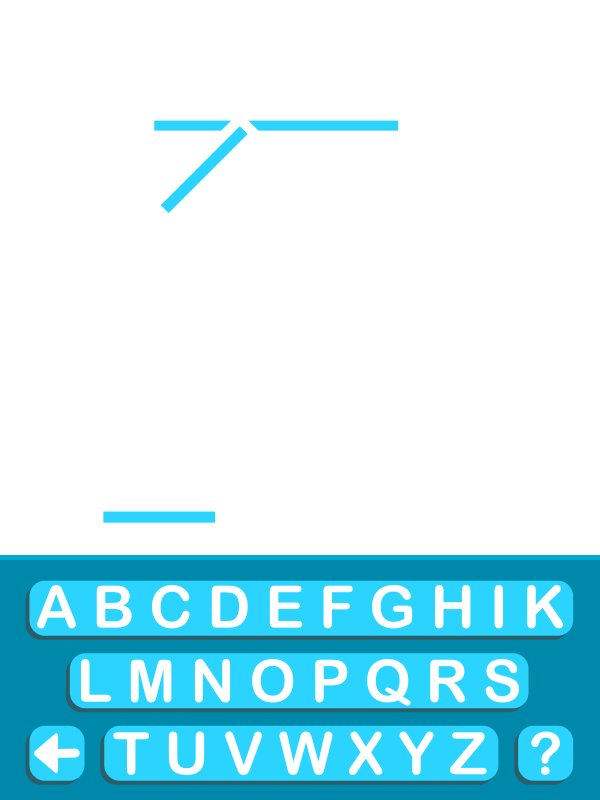
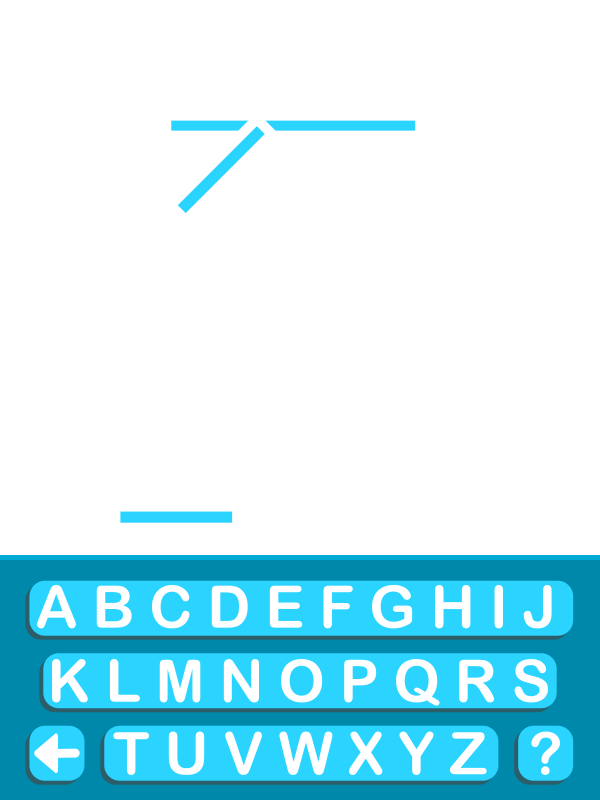
Help functionality.

diff --git a/HangmanQuest/HQView.cpp b/HangmanQuest/HQView.cpp
@@ -1,14 +1,76 @@
 #include "HQView.h"
-#include <SFML/Graphics.hpp>
 
 HQView::HQView()
 {
 	game_state = MAIN_MENU;
+	// Create alphabet buttons.
+	sf::IntRect a_button(35, 582, 43, 49);
+	sf::IntRect b_button(91, 582, 43, 49);
+	sf::IntRect c_button(149, 582, 43, 49);
+	sf::IntRect d_button(207, 582, 43, 49);
+	sf::IntRect e_button(263, 582, 43, 49);
+	sf::IntRect f_button(315, 582, 43, 49);
+	sf::IntRect g_button(371, 582, 43, 49);
+	sf::IntRect h_button(431, 582, 43, 49);
+	sf::IntRect i_button(477, 582, 43, 49);
+	sf::IntRect j_button(523, 582, 43, 49);
+	sf::IntRect k_button(47, 656, 43, 49);
+	sf::IntRect l_button(103, 656, 43, 49);
+	sf::IntRect m_button(158, 656, 43, 49);
+	sf::IntRect n_button(220, 656, 43, 49);
+	sf::IntRect o_button(280, 656, 43, 49);
+	sf::IntRect p_button(338, 656, 43, 49);
+	sf::IntRect q_button(396, 656, 43, 49);
+	sf::IntRect r_button(454, 656, 43, 49);
+	sf::IntRect s_button(509, 656, 43, 49);
+	sf::IntRect t_button(110, 729, 43, 49);
+	sf::IntRect u_button(164, 729, 43, 49);
+	sf::IntRect v_button(222, 729, 43, 49);
+	sf::IntRect w_button(278, 729, 55, 49);
+	sf::IntRect x_button(344, 729, 43, 49);
+	sf::IntRect y_button(394, 729, 43, 49);
+	sf::IntRect z_button(447, 729, 43, 49);
+	alpha_buttons.push_back(a_button);
+	alpha_buttons.push_back(b_button);
+	alpha_buttons.push_back(c_button);
+	alpha_buttons.push_back(d_button);
+	alpha_buttons.push_back(e_button);
+	alpha_buttons.push_back(f_button);
+	alpha_buttons.push_back(g_button);
+	alpha_buttons.push_back(h_button);
+	alpha_buttons.push_back(i_button);
+	alpha_buttons.push_back(j_button);
+	alpha_buttons.push_back(k_button);
+	alpha_buttons.push_back(l_button);
+	alpha_buttons.push_back(m_button);
+	alpha_buttons.push_back(n_button);
+	alpha_buttons.push_back(o_button);
+	alpha_buttons.push_back(p_button);
+	alpha_buttons.push_back(q_button);
+	alpha_buttons.push_back(r_button);
+	alpha_buttons.push_back(s_button);
+	alpha_buttons.push_back(t_button);
+	alpha_buttons.push_back(u_button);
+	alpha_buttons.push_back(v_button);
+	alpha_buttons.push_back(w_button);
+	alpha_buttons.push_back(x_button);
+	alpha_buttons.push_back(y_button);
+	alpha_buttons.push_back(z_button);
 }
 
 
 HQView::~HQView()
 {
+}
+
+char HQView::getLetter(sf::Vector2i position)
+{
+	for (size_t i = 0; i < alpha_buttons.size(); ++i)
+	{
+		if (alpha_buttons[i].contains(position))
+			return static_cast<char>(i + 65);
+	}
+	return ' ';
 }
 
 /*
@@ -17,7 +79,7 @@ Renders the game screen (the current state of the game).
 int HQView::displayGame()
 {
 	// Create window.
-	sf::RenderWindow window(sf::VideoMode(600, 800), "HangmanQuest");
+	sf::RenderWindow window(sf::VideoMode(600, 800), "HangmanQuest", sf::Style::Close);
 	window.setVerticalSyncEnabled(true);
 	window.setFramerateLimit(60);
 
@@ -38,6 +100,14 @@ int HQView::displayGame()
 	title.setFillColor(sf::Color::White);
 	float title_width = title.getLocalBounds().width;
 	title.setPosition(300 - title_width / 2, 180);
+
+	// Create empty word to guess.
+	sf::Text empty_word;
+	empty_word.setFont(font);
+	empty_word.setCharacterSize(56);
+	empty_word.setFillColor(sf::Color::White);
+	float empty_word_width = empty_word.getLocalBounds().width;
+	empty_word.setPosition(300 - empty_word_width / 2, 180);
 
 	// Create menu overlay.
 	sf::Texture menu_overlay_texture;
@@ -60,9 +130,20 @@ int HQView::displayGame()
 	sf::Sprite game_overlay;
 	game_overlay.setTexture(game_overlay_texture);
 
+	// Create help overlay.
+	sf::Texture help_overlay_texture;
+	if (!help_overlay_texture.loadFromFile("../Overlays/help.png"))
+		return -1;
+	sf::Sprite help_overlay;
+	help_overlay.setTexture(help_overlay_texture);
+
 	// Create menu buttons.
 	sf::IntRect enter_word_button(149, 551, 301, 105);
 	sf::IntRect choose_word_button(130, 421, 340, 105);
+
+	// Other game buttons.
+	sf::IntRect back_button(29, 725, 55, 56);
+	sf::IntRect help_button(518, 725, 56, 56);
 
 	// Create enter word button.
 	sf::IntRect confirm_button(189, 591, 221, 52);
@@ -137,8 +218,39 @@ int HQView::displayGame()
 
 				break;
 			case GAME:
+				// Get if a button was pressed.
+				if (sf::Mouse::isButtonPressed(sf::Mouse::Left))
+				{
+					sf::Vector2i position = sf::Mouse::getPosition(window);
+
+					if (back_button.contains(position)) // return to menu.
+					{
+						game_state = MAIN_MENU;
+						break;
+					}
+					if (help_button.contains(position))
+					{
+						game_state = HELP;
+						break;
+					}
+
+					char guess = getLetter(position);
+					// If there was a guess, send guess to controller.
+					if (guess != ' ')
+					{
+
+					}
+
+				}
 				break;
 			case HELP:
+				// Check if back button was pressed.
+				if (sf::Mouse::isButtonPressed(sf::Mouse::Left))
+				{
+					sf::Vector2i position = sf::Mouse::getPosition(window);
+					if (back_button.contains(position))
+						game_state = GAME;
+				}
 				break;
 			}
 
@@ -163,6 +275,8 @@ int HQView::displayGame()
 			window.draw(game_overlay);
 			break;
 		case HELP:
+			window.draw(game_overlay);
+			window.draw(help_overlay);
 			break;
 		}
 		window.display();

diff --git a/HangmanQuest/HQGame.h b/HangmanQuest/HQGame.h
@@ -22,11 +22,11 @@ public:
 	~HQGame();
 
 	void fetchNewWord(); // Fetches new word from 3of6game database.
-	int guess(char letter); // Guess that a letter is in a word.
+	int guess(char); // Guess that a letter is in a word.
 
 	size_t getWordLength() const; // Return number of letters in the word.
 	std::string getWord() const; // Return word.
-	void setWord(std::string new_word); // Initializes gamestate with a word from the user.
+	void setWord(std::string); // Initializes gamestate with a word from the user.
 
 	std::set<char> getMisses(); // Returns misses.
 	std::set<char> getHits(); // Returns hits.

diff --git a/HangmanQuest/HQView.h b/HangmanQuest/HQView.h
@@ -1,4 +1,6 @@
 #pragma once
+#include <vector>
+#include <SFML/Graphics.hpp>
 class HQView
 {
 private:
@@ -11,6 +13,7 @@ private:
 		HELP
 	};
 
+	std::vector<sf::IntRect> alpha_buttons;
 	GameState game_state;
 
 public:
@@ -19,12 +22,7 @@ public:
 
 	void update();
 
-	void onGuessButtonPress();
-
+	char getLetter(sf::Vector2i);
 	int displayGame();
-	void displayWord();
-	void displayHangman();
-	void displayHits();
-	void displayMisses();
 };
 
